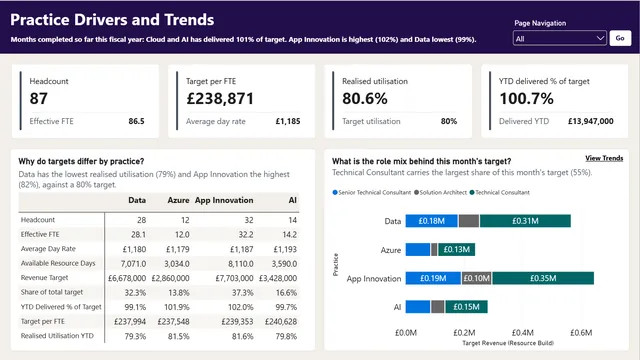
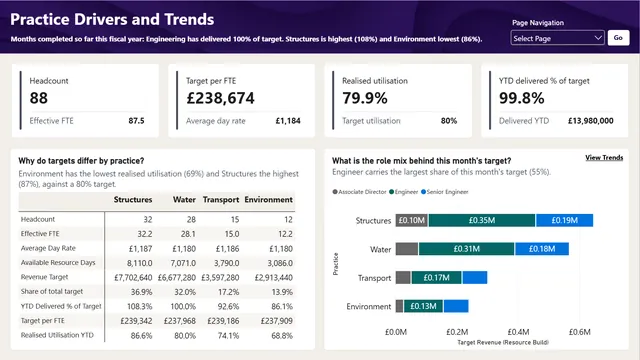
Update Practice on a Page images, alt text and data source detail
Claude-Session: https://claude.ai/code/session_013VTtdhBDbdFrUGrRuq3ADD

diff --git a/data/site.js b/data/site.js
@@ -110,10 +110,10 @@ window.SITE = {
       id: "practice-on-a-page",
       title: "Practice on a Page",
       kind: "Practice performance and outlook report",
-      summary: "How four consulting practices perform against revenue targets, with a clear outlook for the months ahead.",
+      summary: "How four practices of an engineering consultancy perform against revenue targets, with a clear outlook for the months ahead.",
       tools: ["Power BI", "DAX", "Deneb", "Accessible design"],
       description: [
-        "A Power BI report that gives a Chief Operating Officer and four Practice Leads one page to answer “are we on track, and what is driving it?”, with the detail a click away. It was built for a reporting and insight exercise on fictional data, and I treated it as a design problem as much as a build.",
+        "A Power BI report that gives a Chief Operating Officer and four Practice Leads one page to answer “are we on track, and what is driving it?”, with the detail a click away. It was built for a reporting and insight exercise, and I treated it as a design problem as much as a build. The data is a fictional engineering consultancy with four practices: Structures, Water, Transport and Environment.",
         "I started from the questions leaders ask (where are we against target, what will the month and next quarter look like, and why) and designed the model and the page around them. Each chart is titled with the question it answers, and plain status labels (Met target, Missed target, On track, At risk, Off track) mean nobody has to decode a colour scale. One summary page replaces a separate current-month page."
       ],
       highlights: {
@@ -129,12 +129,13 @@ window.SITE = {
         ]
       },
       images: [
-        { src: "practice-on-a-page-1", alt: "Practice Reporting for November 2026. The header says 83% of the £1.73 million target is delivered or booked and the expected outlook is 101%, with Azure highest at 110% and App Innovation lowest at 96%. Four cards show a revenue target of £1,729,000 over 21 working days and 86.8 effective FTE, committed revenue of £1,430,000 (£645,000 delivered and £785,000 to deliver), an expected outlook of 100.9% (£16,000 above target), and a next quarter status of On track with 11% pipeline dependency. A stacked bar chart shows each practice's delivered, booked and pipeline needed share of target: Azure is least secured at 77% and AI most at 90%. A column chart shows committed revenue against target for November 2026 to February 2027. No month reaches target, and February 2027 is lowest at 55%." },
-        { src: "practice-on-a-page-2", alt: "Practice on a Page with the cards flipped to trend and table views. The three KPI cards become small line charts of revenue target, committed revenue and expected outlook from March to February. A table shows each practice's target, committed amount, committed percentage, outlook percentage and status: Azure at 110.3%, AI at 105.0% and Data at 101.0% are On track, and App Innovation at 95.6% is At risk. A second table shows each fiscal quarter: Q1 and Q2 met target, Q3 is At risk with an outlook of 98.9% and £59,000 short, and Q4 is On track at 100.8%." },
-        { src: "practice-on-a-page-3", alt: "Overview for FY27 Q4. The header says 61% of the £5.09 million target is booked, pipeline lifts the expected outlook to 101%, but 39% of that outlook still has to be won. Cards show a next quarter outlook of 100.8% with £3,124,000 booked, the top five deals making up 25% of pipeline with an early stage share of 80%, and a status of On track with 11% pipeline dependency. Filters for practice and stage sit beside the cards. A column chart shows committed revenue cover by month, and a table lists fictional opportunities with stage, month, adjusted pipeline and delivery risk, shown as a text label and an icon." },
-        { src: "practice-on-a-page-4", alt: "Practice Drivers and Trends. Four cards show headcount of 87 with 86.5 effective FTE, target per FTE of £238,871 with an average day rate of £1,185, realised utilisation of 80.6% against an 80% target, and year-to-date delivery at 100.7% of target (£13,947,000). A table compares Data, Azure, App Innovation and AI on headcount, effective FTE, day rate, available resource days, revenue target, share of total target, year-to-date delivery and realised utilisation. A stacked bar chart shows the role mix behind this month's target by practice, with Technical Consultant carrying the largest share at 55%." },
-        { src: "practice-on-a-page-5", alt: "Practice Drivers and Trends with the view switched to trends. The same four cards sit above two charts. A column chart compares committed revenue and expected outlook as a percentage of target for each fiscal quarter against a 100% target line: committed is 100.7% in Q1, 102.6% in Q2, 93.0% in Q3 and 61.4% in Q4, while the Q4 outlook is 100.8%. A line chart compares monthly revenue target with committed revenue from March 2026 to February 2027. Committed revenue reaches target in 4 of 12 months, and the biggest shortfall is February 2027, £755,000 below target." },
-        { src: "practice-on-a-page-6", alt: "The Practice Reporting landing slide for November 2026, on a purple background. Five white cards link to the report sections: Practice on a Page, Next Quarter, Practice Drivers, Definitions and Assumptions. Each card gives the headline finding in plain language, for example that 83% of the £1.73 million target is delivered or booked and the expected outlook is 101%." }
+        { src: "practice-on-a-page-1", alt: "Practice Reporting for November 2026. The header says 76% of the £1.75 million target is delivered or booked and the expected outlook is 104%, with Structures highest at 118% and Environment lowest at 81%. Four cards show a revenue target of £1,746,520 over 21 working days and 87.8 effective FTE, committed revenue of £1,331,000 (£626,000 delivered and £705,000 to deliver), an expected outlook of 103.7% (£63,880 above target), and a next quarter status of At risk with a 97% outlook and 10% pipeline dependency. A stacked bar chart shows each practice's delivered, booked and pipeline needed share of target: Environment is least secured at 60% and Structures most at 88%. A column chart shows committed revenue against target for November 2026 to February 2027. No month reaches target, and February 2027 is lowest at 61%." },
+        { src: "practice-on-a-page-2", alt: "Practice Reporting for November 2026 with the cards flipped to trend and table views. The three KPI cards become small line charts of revenue target, committed revenue and expected outlook from March to February. A table shows each practice's target, committed amount, committed percentage, outlook percentage and status: Structures at 117.7% and Water at 101.7% are On track, Transport at 95.1% is At risk, and Environment at 80.9% is Off track. A second table shows each fiscal quarter: Q1 and Q2 missed target, Q3 is On track at 101.7%, and Q4 is At risk with an outlook of 97.0% and £156,000 short." },
+        { src: "practice-on-a-page-3", alt: "Overview for FY27 Q4. The header says 66% of the £5.14 million target is booked, pipeline lifts the expected outlook to 97%, but 32% of that outlook still has to be won. Cards show a next quarter outlook of 97.0% with £3,409,000 booked, the top five deals making up 32% of pipeline with an early stage share of 51%, and a status of At risk with 10% pipeline dependency. Filters for practice and stage sit beside the cards. A column chart shows committed revenue cover by month: none of the four months reaches target, and February 2027 is lowest at 61%. A table lists fictional opportunities with stage, month, adjusted pipeline and delivery risk, shown as a text label and an icon. The largest deal is £170,000." },
+        { src: "practice-on-a-page-4", alt: "Practice Drivers and Trends. Four cards show headcount of 88 with 87.5 effective FTE, target per FTE of £238,674 with an average day rate of £1,184, realised utilisation of 79.9% against an 80% target, and year-to-date delivery at 99.8% of target (£13,980,000). A table compares Structures, Water, Transport and Environment on headcount, effective FTE, day rate, available resource days, revenue target, share of total target, year-to-date delivery and realised utilisation. Structures delivers 108.3% of target and Environment 86.1%. A stacked bar chart shows the role mix behind this month's target by practice, with Engineer carrying the largest share at 55%." },
+        { src: "practice-on-a-page-5", alt: "Practice Drivers and Trends with the view switched to trends. The same four cards sit above two charts. A column chart compares committed revenue and expected outlook as a percentage of target for each fiscal quarter against a 100% target line: committed is 99.3% in Q1, 99.7% in Q2, 92.8% in Q3 and 66.3% in Q4, while the outlook is 99.3%, 99.7%, 101.7% and 97.0%. A line chart compares monthly revenue target with committed revenue from March 2026 to February 2027. Committed revenue reaches target in 5 of 12 months, and the biggest shortfall is February 2027, £668,000 below target." },
+        { src: "practice-on-a-page-6", alt: "The Definitions page, a metrics dictionary. A table answers “What does each metric mean?” with columns for area, metric, what it means and unit, and two dropdown filters to select a metric or an area. Rows shown include Current Month Start, Working Days, Revenue Target and Gross Capacity Value, grouped under Period and context and Target and capacity." },
+        { src: "practice-on-a-page-7", alt: "The Practice Reporting landing slide for November 2026, on a purple background. Five white cards link to the report sections: Practice on a Page, Next Quarter, Practice Drivers, Definitions and Assumptions. Each card gives the headline finding in plain language, for example that 76% of the £1.75 million target is delivered or booked and the expected outlook is 104%." }
       ]
     },
     {

diff --git a/index.html b/index.html
@@ -225,7 +225,7 @@
     </nav>
   </div>
 </footer>
-<script src="data/site.js?v=13"></script>
+<script src="data/site.js?v=14"></script>
 <script src="assets/js/nav.js?v=7"></script>
 <script src="assets/js/app.js?v=7"></script>
 </body>
